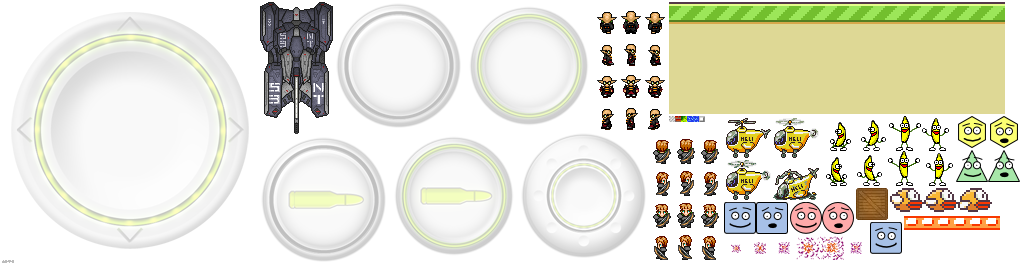
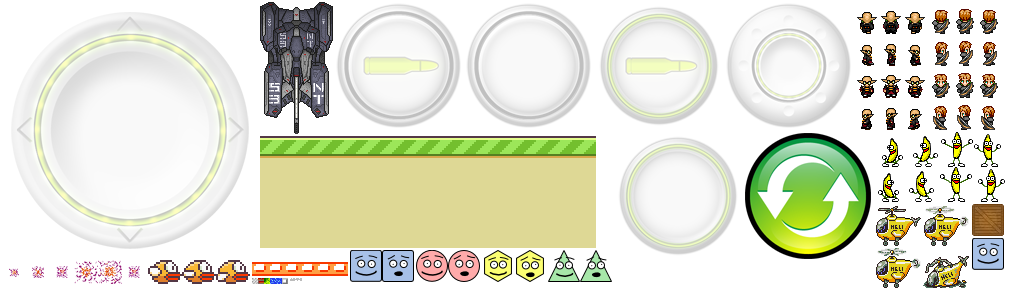
apply force and impules

diff --git a/box2d/src/main/java/com/guidebee/game/tutorial/box2d/stage/ForceAndImpulseStage.java b/box2d/src/main/java/com/guidebee/game/tutorial/box2d/stage/ForceAndImpulseStage.java
@@ -1,0 +1,180 @@
+package com.guidebee.game.tutorial.box2d.stage;
+
+import android.util.Log;
+
+import com.guidebee.game.Collidable;
+import com.guidebee.game.GameEngine;
+import com.guidebee.game.physics.BodyDef;
+import com.guidebee.game.physics.PolygonShape;
+import com.guidebee.game.physics.Shape;
+import com.guidebee.game.scene.collision.Collision;
+import com.guidebee.game.scene.collision.CollisionListener;
+import com.guidebee.game.tutorial.box2d.Configuration;
+import com.guidebee.game.tutorial.box2d.actor.AnimatedFace;
+import com.guidebee.game.tutorial.box2d.actor.Button;
+import com.guidebee.game.tutorial.box2d.actor.Face;
+import com.guidebee.game.tutorial.box2d.actor.Ground;
+import com.guidebee.game.tutorial.box2d.actor.Platform;
+import com.guidebee.game.tutorial.box2d.actor.Player;
+import com.guidebee.math.MathUtils;
+import com.guidebee.math.Vector2;
+import com.guidebee.math.geometry.Rectangle;
+
+
+public class ForceAndImpulseStage extends Box2DGameStage implements CollisionListener {
+
+
+    private class ClickButton extends Button {
+
+
+        @Override
+        protected void clickEventHandler() {
+            face1.getBody().applyForce(new Vector2(0, 50),
+                    face1.getBody().getWorldCenter(), true);
+            face2.getBody().applyLinearImpulse(new Vector2(0, 50),
+                    face2.getBody().getWorldCenter(), true);
+
+            face3.getBody().setTransform(new Vector2(
+                    GameEngine.toBox2D(150f),
+                    GameEngine.toBox2D(350f)), 0);
+            face3.getBody().setAwake(true);
+
+            face4.getBody().applyTorque(20,true);
+
+
+        }
+    }
+
+    private final Ground ground;
+
+    private final AnimatedFace face1;
+
+    private final AnimatedFace face2;
+
+    private final AnimatedFace face3;
+
+    private final AnimatedFace face4;
+
+
+    private final ClickButton button;
+
+    public ForceAndImpulseStage() {
+        super();
+
+        ground = new Ground();
+        addActor(ground);
+
+        face1 = createFace(AnimatedFace.Type.Box);
+        face1.setX(20);
+        face1.resetBodyWithSprite();
+        addActor(face1);
+
+        face2 = createFace(AnimatedFace.Type.Triangle);
+        face2.setX(Configuration.SCREEN_WIDTH / 3);
+        face2.resetBodyWithSprite();
+        addActor(face2);
+
+        face3 = createFace(AnimatedFace.Type.Circle);
+        face3.setX(Configuration.SCREEN_WIDTH / 3*2);
+        face3.resetBodyWithSprite();
+        addActor(face3);
+
+        face4 = createFace(AnimatedFace.Type.Hexagon);
+        face4.setX(Configuration.SCREEN_WIDTH -50);
+        face4.resetBodyWithSprite();
+        addActor(face4);
+
+
+        button = new ClickButton();
+        addActor(button);
+
+        setCollisionListener(this, Collidable.BOX2D_CONTACT);
+    }
+
+    @Override
+    public void collisionDetected(Collision collision) {
+        Collidable objectA = collision.getObjectA();
+        Collidable objectB = collision.getObjectB();
+
+        if (!(objectA.getName() == "Ground" && objectB.getName() == "Ground")) {
+            Log.d("Collide", collision.getObjectA().getName() + ":" +
+                    collision.getObjectB().getName());
+        }
+    }
+
+
+    private float[] getHexagonVertices() {
+        float[] vertices = new float[12];
+        vertices[0] = 0;
+        vertices[1] = -16;
+        vertices[2] = 14;
+        vertices[3] = -8;
+        vertices[4] = 14;
+        vertices[5] = 8;
+
+        vertices[6] = 0;
+        vertices[7] = 16;
+        vertices[8] = -14;
+        vertices[9] = 8;
+        vertices[10] = -14;
+        vertices[11] = -8;
+
+        return GameEngine.toBox2DVertices(vertices);
+
+    }
+
+    private float[] getTriangleVertices() {
+        float[] vertices = new float[6];
+        vertices[0] = -16;
+        vertices[1] = -16;
+        vertices[2] = 16;
+        vertices[3] = -16;
+        vertices[4] = 0;
+        vertices[5] = 16;
+
+        return GameEngine.toBox2DVertices(vertices);
+
+    }
+
+
+    private AnimatedFace createFace(AnimatedFace.Type type) {
+
+        AnimatedFace.Type faceType = type;
+        AnimatedFace animatedFace = new AnimatedFace(faceType);
+        animatedFace.setPosition(MathUtils.random(0,
+                        Configuration.SCREEN_WIDTH - 64),
+                Configuration.SCREEN_HEIGHT/2);
+
+        Rectangle dropRect = new Rectangle(0, 0, 32, 32);
+        switch (faceType) {
+            case Box:
+                animatedFace.initBody();
+                break;
+            case Circle:
+                animatedFace.initBody(BodyDef.BodyType.DynamicBody,
+                        Shape.Type.Circle, dropRect, 1.0f, 0.5f, 0.1f);
+
+                break;
+            case Triangle:
+                PolygonShape triangleShape = new PolygonShape();
+
+                float[] triangleVertices = getTriangleVertices();
+                triangleShape.set(triangleVertices);
+                animatedFace.initBody(BodyDef.BodyType.DynamicBody,
+                        triangleShape, dropRect, 1.0f, 0.5f, 0.1f);
+                break;
+            case Hexagon:
+                PolygonShape shape = new PolygonShape();
+
+                float[] vertices = getHexagonVertices();
+                shape.set(vertices);
+                animatedFace.initBody(BodyDef.BodyType.DynamicBody,
+                        shape, dropRect, 1.0f, 0.5f, 0.1f);
+
+                break;
+        }
+
+        return animatedFace;
+
+    }
+}

diff --git a/box2d/src/main/java/com/guidebee/game/tutorial/box2d/actor/Button.java b/box2d/src/main/java/com/guidebee/game/tutorial/box2d/actor/Button.java
@@ -1,0 +1,41 @@
+package com.guidebee.game.tutorial.box2d.actor;
+
+import com.guidebee.game.graphics.TextureAtlas;
+import com.guidebee.game.graphics.TextureRegion;
+import com.guidebee.game.scene.Actor;
+import com.guidebee.game.tutorial.box2d.Configuration;
+import com.guidebee.math.Vector3;
+
+import static com.guidebee.game.GameEngine.assetManager;
+import static com.guidebee.game.GameEngine.input;
+
+public abstract class Button extends Actor {
+
+    protected abstract void clickEventHandler();
+
+    public Button(){
+        super("Button");
+        TextureAtlas textureAtlas=assetManager.get("box2d.atlas",
+                TextureAtlas.class);
+        TextureRegion buttonTextRegion=textureAtlas.findRegion("buttonrefresh");
+        setTextureRegion(buttonTextRegion);
+        setPosition(Configuration.SCREEN_WIDTH
+                        - buttonTextRegion.getRegionWidth()-20,
+                Configuration.SCREEN_HEIGHT
+                        -buttonTextRegion.getRegionHeight()-20);
+    }
+
+    @Override
+    public void act(float delta) {
+        if (input.isTouched()) {
+            //handel touch event
+            Vector3 touchPos = new Vector3();
+            touchPos.set(input.getX(), input.getY(), 0);
+            getStage().getCamera().unproject(touchPos);
+            if (getBoundingAABB().contains(touchPos.x, touchPos.y)) {
+                clickEventHandler();
+            }
+        }
+    }
+
+}

diff --git a/box2d/src/main/java/com/guidebee/game/tutorial/box2d/actor/Bullet.java b/box2d/src/main/java/com/guidebee/game/tutorial/box2d/actor/Bullet.java
@@ -1,0 +1,31 @@
+package com.guidebee.game.tutorial.box2d.actor;
+
+import com.guidebee.game.graphics.TextureAtlas;
+import com.guidebee.game.graphics.TextureRegion;
+import com.guidebee.game.scene.Actor;
+import com.guidebee.game.tutorial.box2d.Configuration;
+
+import static com.guidebee.game.GameEngine.assetManager;
+
+
+public class Bullet extends Actor {
+
+    private final TextureRegion bulletTextRegion;
+
+    public  Bullet(){
+        super("Bullet");
+        TextureAtlas textureAtlas=assetManager.get("box2d.atlas",
+                TextureAtlas.class);
+        bulletTextRegion =textureAtlas.findRegion("bullet");
+        setTextureRegion(bulletTextRegion);
+
+        setPosition((Configuration.SCREEN_WIDTH
+                        - bulletTextRegion.getRegionWidth())/2,
+                (Configuration.SCREEN_HEIGHT
+                        - bulletTextRegion.getRegionHeight())/2);
+        initBody();
+        getBody().setBullet(true);
+
+    }
+
+}

diff --git a/box2d/src/main/java/com/guidebee/game/tutorial/box2d/actor/Face.java b/box2d/src/main/java/com/guidebee/game/tutorial/box2d/actor/Face.java
@@ -11,19 +11,21 @@ public class Face extends Actor {
 
     private final TextureRegion faceTextRegion;
 
-    public  Face(){
+    public Face(int x, int y){
         super("Face");
         TextureAtlas textureAtlas=assetManager.get("box2d.atlas",
                 TextureAtlas.class);
         faceTextRegion=textureAtlas.findRegion("face_box");
         setTextureRegion(faceTextRegion);
-
-        setPosition((Configuration.SCREEN_WIDTH
-                        -faceTextRegion.getRegionWidth())/2,
-                (Configuration.SCREEN_HEIGHT
-                        -faceTextRegion.getRegionHeight())/2);
+        setPosition(x,y);
         initBody();
+    }
 
+    public  Face(){
+        this((Configuration.SCREEN_WIDTH
+                        -32)/2,
+                (Configuration.SCREEN_HEIGHT
+                        -32)/2);
     }
 
 }

diff --git a/box2d/src/main/java/com/guidebee/game/tutorial/box2d/Box2DGameScene.java b/box2d/src/main/java/com/guidebee/game/tutorial/box2d/Box2DGameScene.java
@@ -5,6 +5,7 @@ import com.guidebee.game.InputProcessor;
 import com.guidebee.game.scene.Scene;
 import com.guidebee.game.tutorial.box2d.stage.BasicBox2DStage;
 import com.guidebee.game.tutorial.box2d.stage.BodyTypeStage;
+import com.guidebee.game.tutorial.box2d.stage.ForceAndImpulseStage;
 import com.guidebee.game.tutorial.box2d.stage.SelfControlStage;
 import com.guidebee.game.tutorial.box2d.stage.ShapeTypeStage;
 
@@ -16,7 +17,7 @@ public class Box2DGameScene extends Scene {
     private InputProcessor savedInputProcessor;
 
     public Box2DGameScene(){
-        super(new ShapeTypeStage());
+        super(new ForceAndImpulseStage());
 
     }
 

diff --git a/box2d/src/main/java/com/guidebee/game/tutorial/box2d/actor/Tank.java b/box2d/src/main/java/com/guidebee/game/tutorial/box2d/actor/Tank.java
@@ -1,7 +1,5 @@
 package com.guidebee.game.tutorial.box2d.actor;
 
-import android.util.Log;
-
 import com.guidebee.game.GameEngine;
 import com.guidebee.game.graphics.TextureAtlas;
 import com.guidebee.game.graphics.TextureRegion;
@@ -10,7 +8,6 @@ import com.guidebee.game.physics.PolygonShape;
 import com.guidebee.game.scene.Actor;
 import com.guidebee.game.tutorial.box2d.Configuration;
 import com.guidebee.math.geometry.Rectangle;
-import com.guidebee.utils.collections.Array;
 
 import static com.guidebee.game.GameEngine.assetManager;
 
